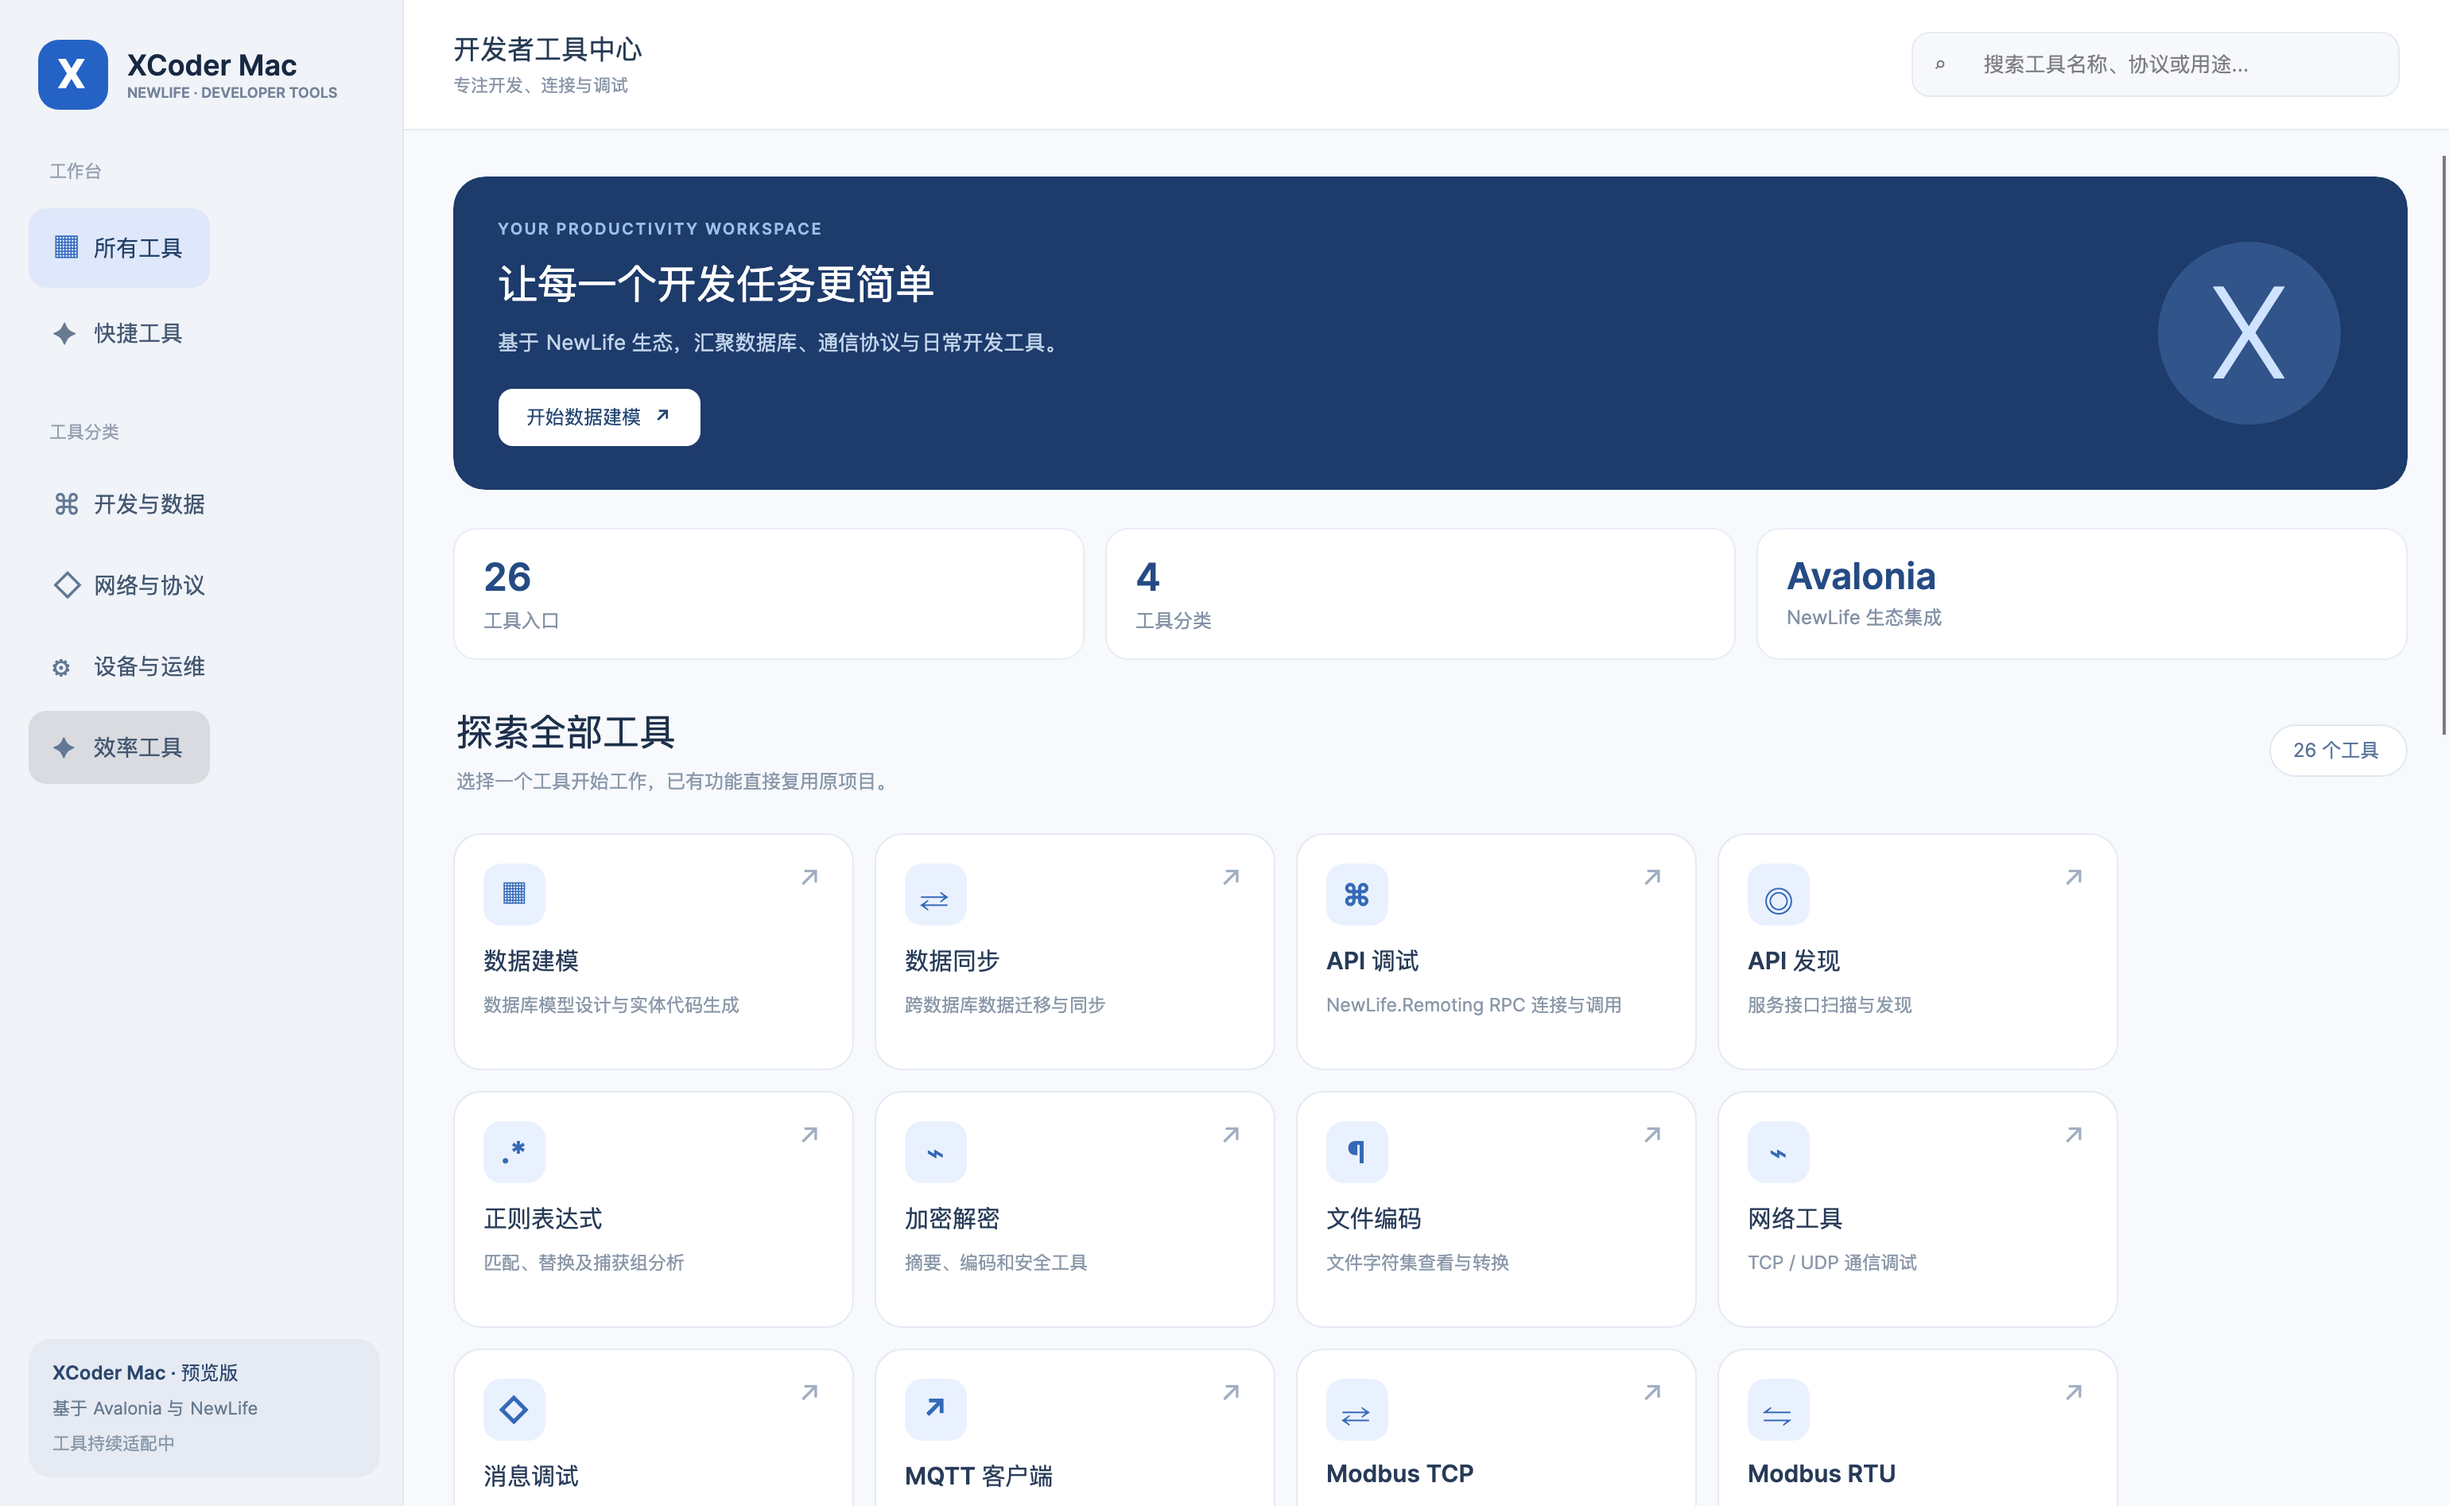
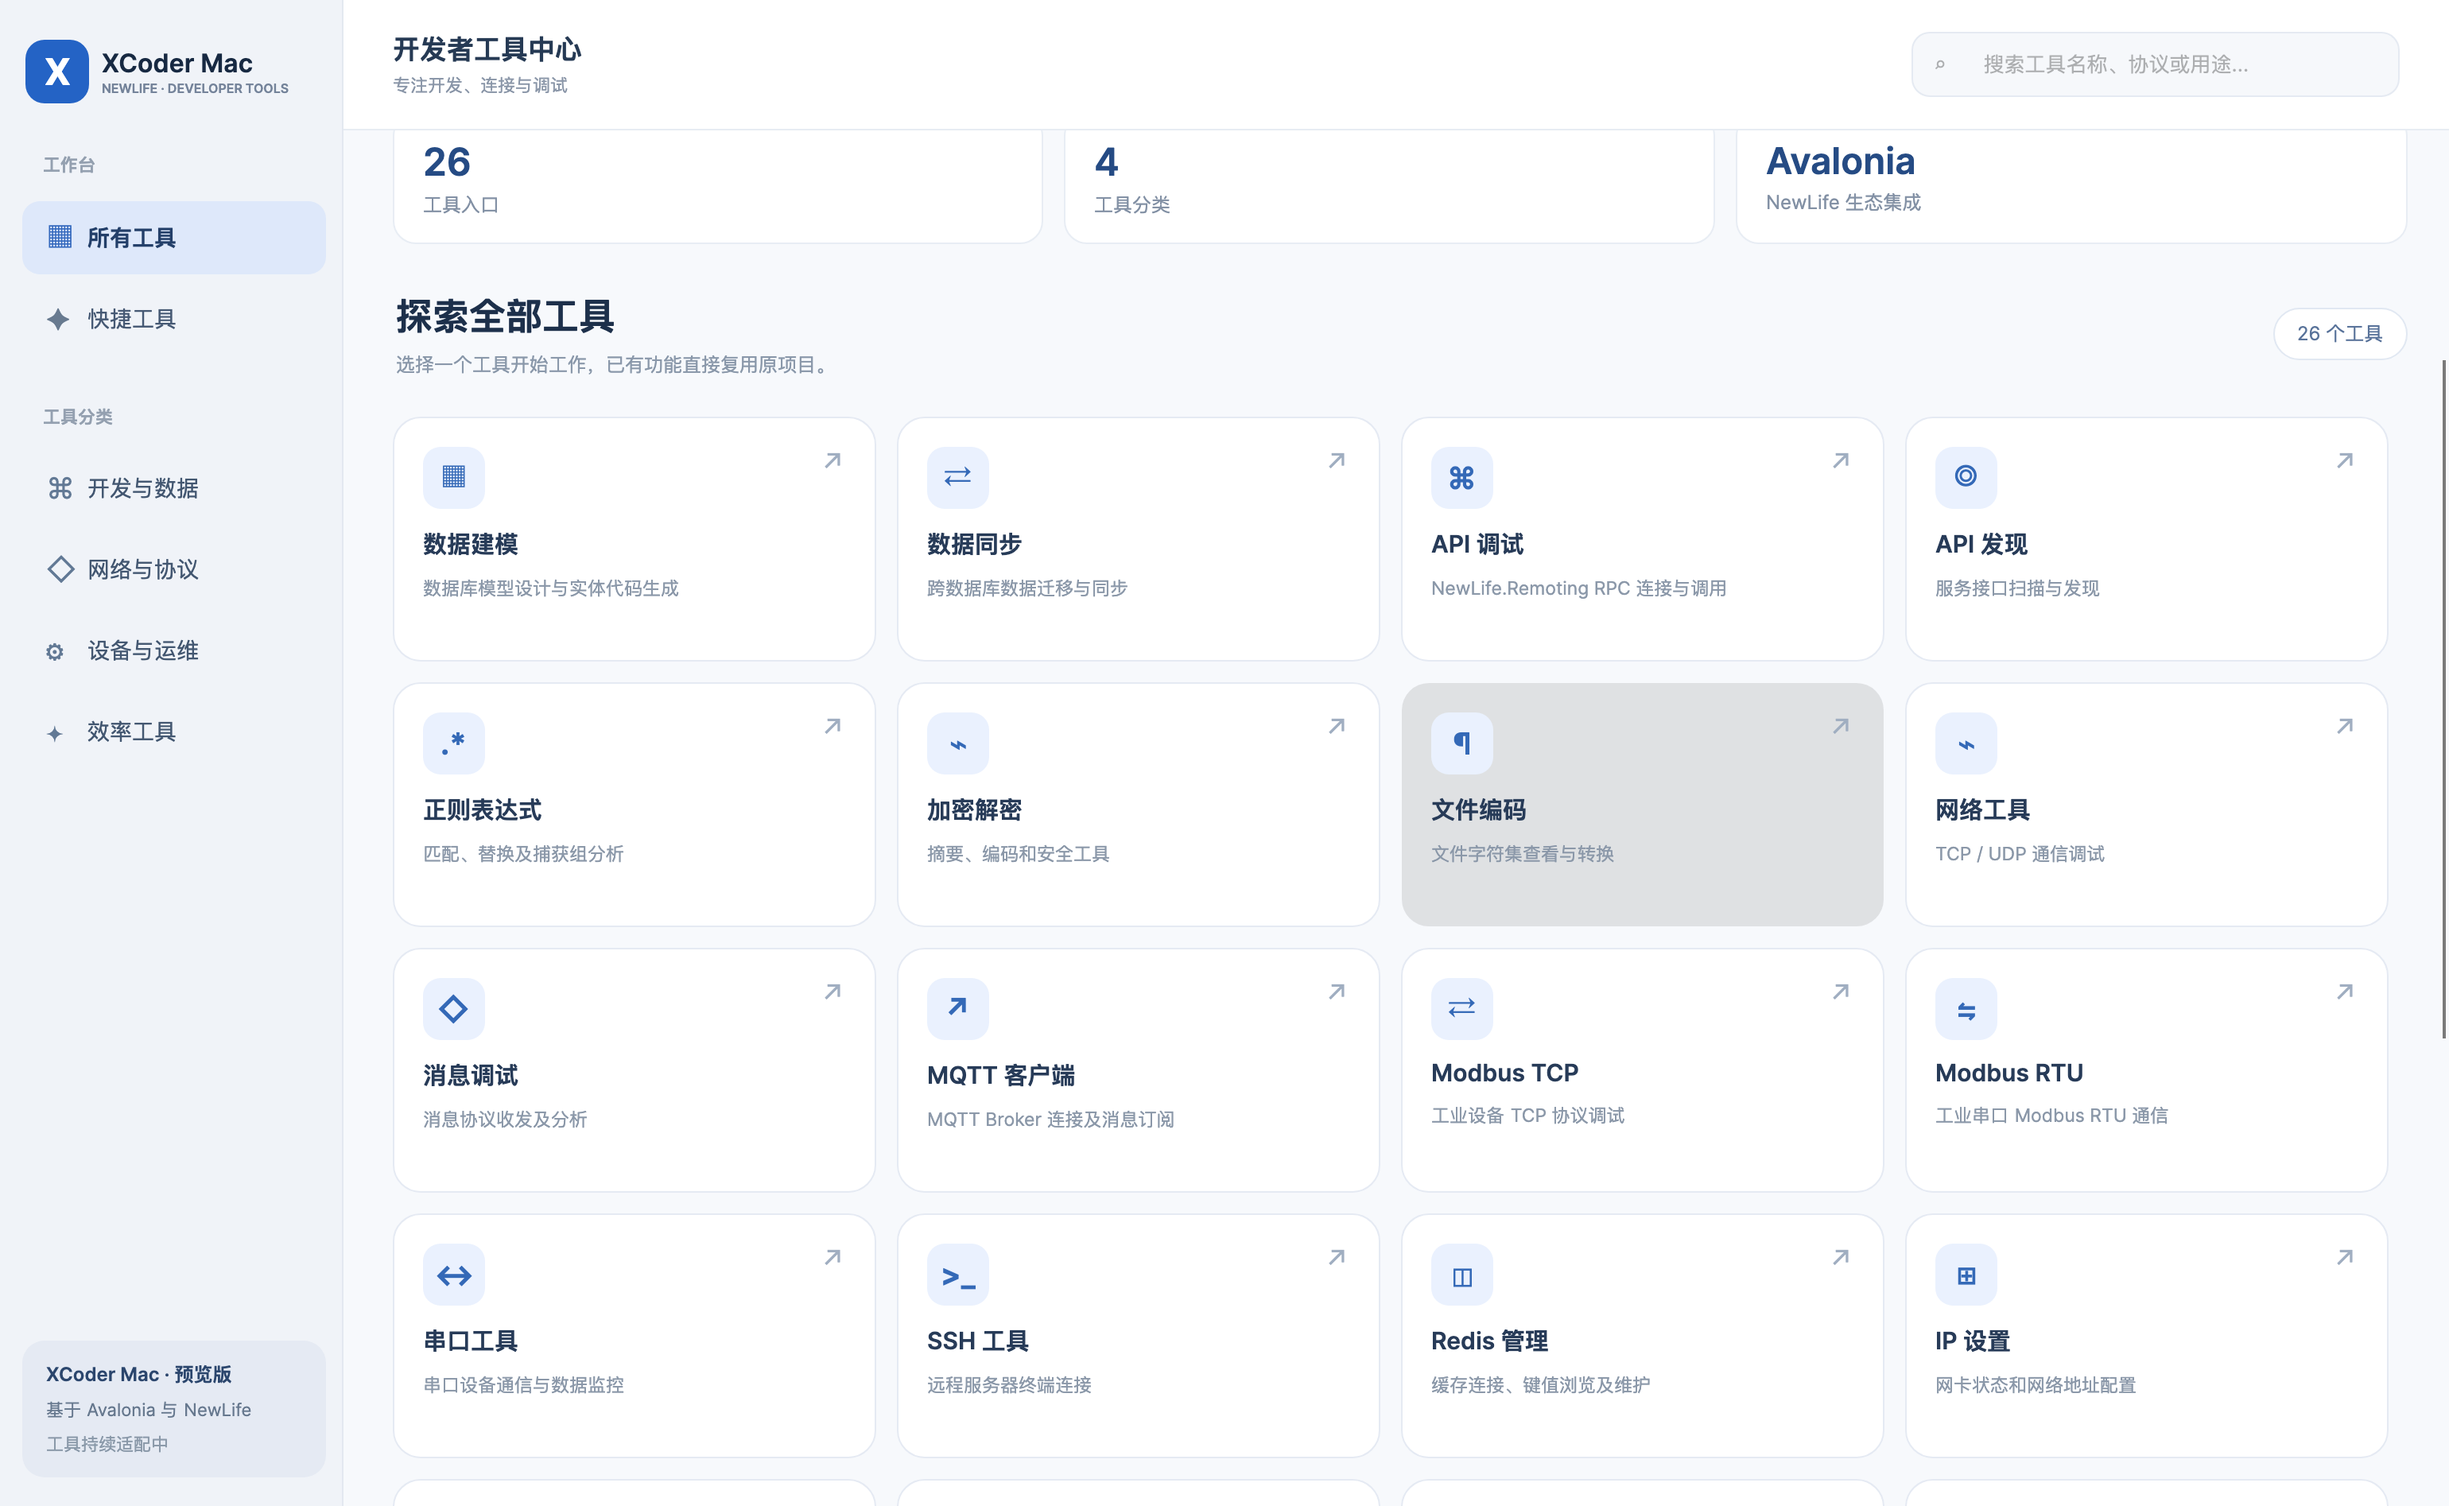
feat(mac): refine responsive home layout and navigation

diff --git a/XCoderMac/MacShellWindow.axaml.cs b/XCoderMac/MacShellWindow.axaml.cs
@@ -6,6 +6,10 @@ using Avalonia.Controls;
 using XCoderAv.ViewModels;
 using Avalonia.Input;
 using Avalonia.Interactivity;
+using Avalonia.VisualTree;
+using Avalonia.Controls.Primitives;
+using Avalonia.Media.Imaging;
+using System.IO;
 
 namespace XCoderMac;
 
@@ -23,6 +27,39 @@ public partial class MacShellWindow : Window
 
     private string? _selectedCategory;
     private bool _quickOnly;
+    private Button? _activeNavigationButton;
+
+    // 与 ToolCards 实际宽度绑定的响应式列数，使用 Avalonia 属性通知 UI 自动重排。
+    public static readonly StyledProperty<int> ToolColumnsProperty =
+        AvaloniaProperty.Register<MacShellWindow, int>(nameof(ToolColumns), 4);
+
+    public int ToolColumns
+    {
+        get => GetValue(ToolColumnsProperty);
+        private set => SetValue(ToolColumnsProperty, value);
+    }
+
+    private static int GetToolColumnCount(double availableWidth) =>
+        availableWidth >= 940 ? 4 :
+        availableWidth >= 690 ? 3 :
+        availableWidth >= 460 ? 2 : 1;
+
+    private void ToolCards_SizeChanged(object? sender, SizeChangedEventArgs e) =>
+        UpdateToolColumns(e.NewSize.Width);
+
+    private void UpdateToolColumns(double availableWidth)
+    {
+        if (availableWidth <= 0 || double.IsInfinity(availableWidth)) return;
+        ToolColumns = GetToolColumnCount(availableWidth);
+    }
+
+    private void SelectNavigation(Button? button)
+    {
+        if (button == null) return;
+        _activeNavigationButton?.Classes.Remove("selected");
+        button.Classes.Add("selected");
+        _activeNavigationButton = button;
+    }
 
     public ObservableCollection<MacTool> VisibleTools { get; } = new();
     public ObservableCollection<MacToolTab> OpenTabs { get; } = new();
@@ -33,6 +70,8 @@ public partial class MacShellWindow : Window
     {
         InitializeComponent();
         DataContext = this;
+        _activeNavigationButton = AllToolsNavButton;
+        // ToolCards.SizeChanged 会在首次布局和后续缩放时计算列数，无需持续监听每一帧布局。
         // 即使焦点处于搜索文本框，也能响应 ⌘F。
         AddHandler(InputElement.KeyDownEvent, Window_KeyDown, RoutingStrategies.Tunnel, handledEventsToo: true);
         RefreshTools();
@@ -71,6 +110,7 @@ public partial class MacShellWindow : Window
     {
         _selectedCategory = null;
         _quickOnly = false;
+        SelectNavigation(AllToolsNavButton);
         RefreshTools();
         ShowHome();
     }
@@ -79,6 +119,7 @@ public partial class MacShellWindow : Window
     {
         _selectedCategory = null;
         _quickOnly = true;
+        SelectNavigation(QuickToolsNavButton);
         RefreshTools();
         ShowHome();
     }
@@ -88,6 +129,7 @@ public partial class MacShellWindow : Window
         if (sender is not Button { Tag: MacCategory category }) return;
         _selectedCategory = category.Name;
         _quickOnly = false;
+        SelectNavigation(sender as Button);
         RefreshTools();
         ShowHome();
     }
@@ -303,6 +345,60 @@ public partial class MacShellWindow : Window
             ShowHome();
 
         UpdateWorkspaceButton();
+    }
+
+    /// <summary>开发测试：验证窗口改变宽度时的布局与导航选中项实际尺寸。</summary>
+    public async System.Threading.Tasks.Task<int> SmokeTestHomeLayoutAsync(string screenshotDirectory)
+    {
+        Directory.CreateDirectory(screenshotDirectory);
+        var errors = 0;
+        foreach (var (width, expected) in new[] { (1320, 4), (1000, 3), (1540, 4) })
+        {
+            try
+            {
+                Width = width;
+                Height = 980;
+                WindowState = WindowState.Normal;
+                ShowHome();
+                await System.Threading.Tasks.Task.Delay(180);
+                UpdateLayout();
+
+                var grid = ToolCards.GetVisualDescendants().OfType<UniformGrid>().FirstOrDefault();
+                var navWidth = AllToolsNavButton.Bounds.Width;
+                var cardsWidth = ToolCards.Bounds.Width;
+                var firstCard = ToolCards.GetVisualDescendants().OfType<Button>()
+                    .FirstOrDefault(b => b.Classes.Contains("tool-card"));
+                Console.WriteLine($"HOME LAYOUT: window={width}, cards={cardsWidth:F1}, cols={ToolColumns}, actualGrid={grid?.Columns}, nav={navWidth:F1}, firstCard={firstCard?.Bounds.Width:F1}");
+
+                if (ToolColumns != expected || grid?.Columns != expected)
+                    throw new InvalidOperationException($"工具卡片应为 {expected} 列");
+                if (navWidth < 175 || navWidth > 205)
+                    throw new InvalidOperationException($"导航按钮没有铺满左栏内部：{navWidth}");
+                if (firstCard == null || firstCard.Bounds.Width < 175)
+                    throw new InvalidOperationException("工具卡片未正常伸展");
+                if (cardsWidth <= 0 || cardsWidth > width - 180)
+                    throw new InvalidOperationException($"工具区宽度不正常：{cardsWidth}");
+
+                if (width == 1540)
+                {
+                    // 保持与其他 26 张工具截图一致的 3080px 原始宽度。
+                    var screenshot = Path.Combine(screenshotDirectory, "00-首页.png");
+                    var pixels = new PixelSize((int)Math.Ceiling(Bounds.Width * 2),
+                                               (int)Math.Ceiling(Bounds.Height * 2));
+                    using var bitmap = new RenderTargetBitmap(pixels, new Vector(192, 192));
+                    bitmap.Render(this);
+                    bitmap.Save(screenshot);
+                    Console.WriteLine($"HOME SCREENSHOT: {screenshot} ({pixels.Width}x{pixels.Height})");
+                }
+            }
+            catch (Exception ex)
+            {
+                errors++;
+                Console.Error.WriteLine($"HOME LAYOUT FAILED ({width}): {ex}");
+            }
+        }
+        Console.WriteLine($"HOME LAYOUT SUMMARY: 3 sizes, ERRORS={errors}");
+        return errors;
     }
 
     // 仅测试工具窗口的初始化、标签复用、导航与关闭，不执行外部业务命令。

diff --git a/XCoderMac/MacApp.axaml.cs b/XCoderMac/MacApp.axaml.cs
@@ -15,8 +15,28 @@ public sealed class MacApp : Application
         {
             desktop.MainWindow = new MacShellWindow();
 #if DEBUG
+            // 测试主页真实布局：响应式卡片列数、左侧选中项宽度，以及首页截图。
+            if (System.Array.Exists(System.Environment.GetCommandLineArgs(), a => a == "--smoke-home-layout"))
+            {
+                Avalonia.Threading.Dispatcher.UIThread.Post(async () =>
+                {
+                    try
+                    {
+                        var shell = (MacShellWindow)desktop.MainWindow!;
+                        var output = System.IO.Path.Combine(System.Environment.CurrentDirectory,
+                            "XCoderMac", "Docs", "软件界面");
+                        var errors = await shell.SmokeTestHomeLayoutAsync(output);
+                        desktop.Shutdown(errors == 0 ? 0 : 1);
+                    }
+                    catch (System.Exception ex)
+                    {
+                        System.Console.Error.WriteLine("HOME LAYOUT CRASH: " + ex);
+                        desktop.Shutdown(1);
+                    }
+                });
+            }
             // 26 工具单主窗口标签页回归：测试打开、复用、切换、关闭和横向导航。
-            if (System.Array.Exists(System.Environment.GetCommandLineArgs(), a => a == "--smoke-tabs"))
+            else if (System.Array.Exists(System.Environment.GetCommandLineArgs(), a => a == "--smoke-tabs"))
             {
                 Avalonia.Threading.Dispatcher.UIThread.Post(() =>
                 {

diff --git a/XCoderMac/Docs/主界面布局优化说明.md b/XCoderMac/Docs/主界面布局优化说明.md
@@ -1,0 +1,24 @@
+# XCoderMac 主界面布局优化（2026-10-18）
+
+## 修改范围
+
+仅调整 `XCoderMac/MacShellWindow.axaml` 与 `MacShellWindow.axaml.cs` 的主页布局；主窗口单标签工作区及 26 个工具业务功能保持原样。
+
+- **左侧栏**：主 Grid 左列从 254 调整为 **216** 逻辑像素；Logo 与文字缩小，适应窄侧栏。
+- **导航选中项**：所有工具/快捷工具使用约束宽度的 Grid，菜单 Button `HorizontalAlignment=Stretch`；选中项通过 `sidebar-item.selected` 样式高亮。点击其他分类时只高亮当前分类，确保整个菜单行一致。
+- **工具卡片**：取消固定 252px 卡片宽度，用 `UniformGrid` 均分实际可用宽度。根据卡片区宽度实时确定列数：≥940px 为 4 列，≥690px 为 3 列，≥460px 为 2 列，其余为 1 列。列数是 Avalonia `StyledProperty`，缩放自动通知 UI。
+- **布局间距**：保留原有首页欢迎横幅、统计卡、配色、导航与工具功能，仅微调卡片高度为 154px。
+
+## 实机验证
+
+测试命令：
+
+```bash
+dotnet build XCoderMac/XCoderMac.csproj -c Debug --no-restore
+dotnet run --project XCoderMac/XCoderMac.csproj -c Debug --no-build -- --smoke-home-layout
+dotnet run --project XCoderMac/XCoderMac.csproj -c Debug --no-build -- --smoke-tabs
+```
+
+`--smoke-home-layout` 会对 1000/1320/1540 三个窗口宽度分别校验工具列数、左菜单宽度和工具卡片伸展情况，并更新 `Docs/软件界面/00-首页.png`。其他 26 张工具截图保持不变。
+
+测试观察：1320 宽工具区 1047px / 4 列；1000 宽工具区 727px / 3 列；1540 宽工具区 1267px / 4 列；选中导航按钮宽度 191px。

diff --git a/XCoderMac/README.md b/XCoderMac/README.md
@@ -4,6 +4,9 @@
 > 工程目录：`/Users/yanjinlong/Code/newlife/XCoder/XCoderMac`
 > 项目约束：保留 `master`，不修改上游 `XCoderAv`；仅新增/维护本目录代码，根目录 `码神工具.sln` 只添加项目。
 
+
+- **主界面自适应（2026-10-18）**：左侧导航栏缩为 216px，整行选中高亮；工具卡片根据宽度自动排布 4/3/2/1 列，解决右下方大块留白。具体见 `Docs/主界面布局优化说明.md`，可运行 `--smoke-home-layout` 检验与更新首页截图。
+
 ## 最新上游兼容与单窗口多标签（2026-10-18）
 
 - 已将项目添加到新版根目录 `码神工具.slnx`；`XCoderMac.csproj` 的 Avalonia.Desktop、Avalonia.Themes.Fluent、Avalonia.Fonts.Inter 已与上游 `XCoderAv` 对齐为 **12.1.1**。
